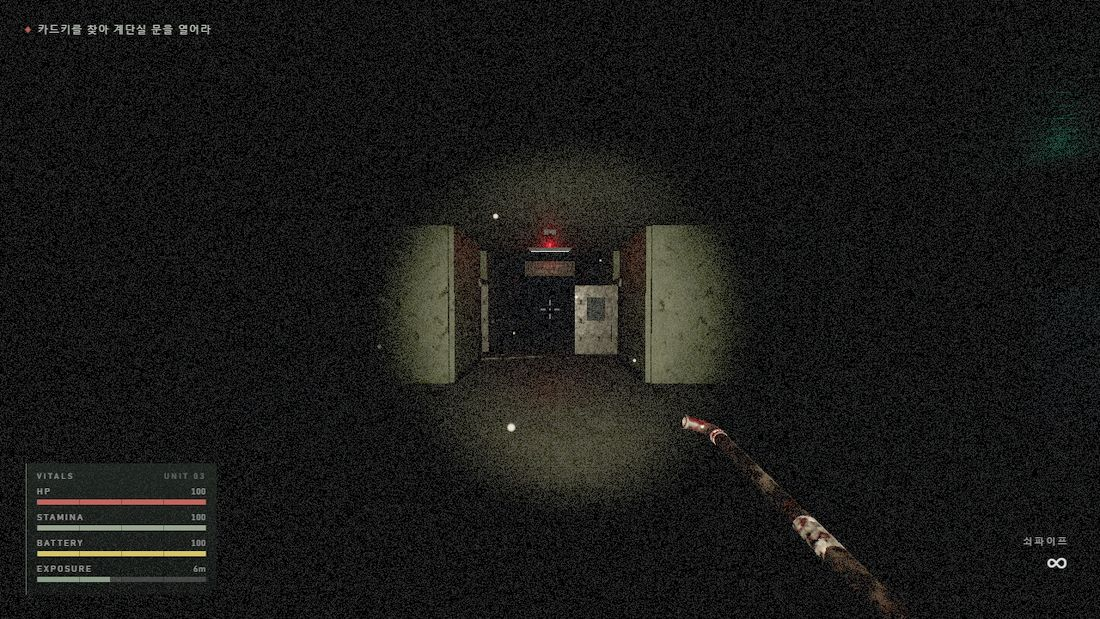
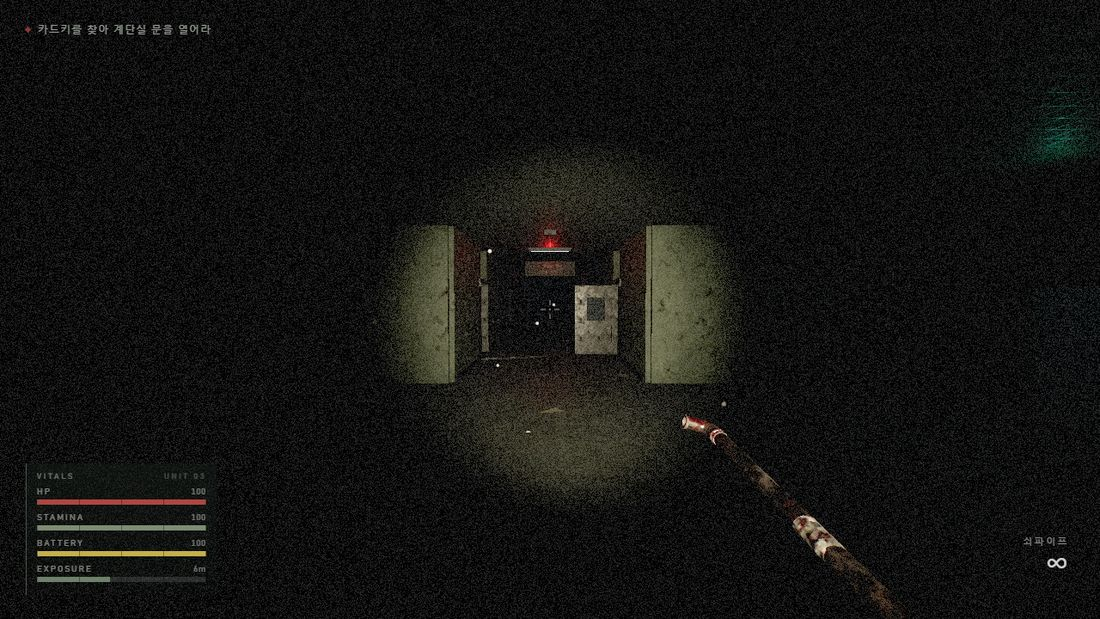
밝아진 화면으로 문서 사진을 다시 찍고 근거를 기록했다
게임이 밝아져서 "인쇄용으로 감마를 올렸다"는 설명과 실제가 어긋났다.
스크린샷 5장을 다시 찍고 감마를 1.85~2.0 에서 1.2~1.45 로 낮췄다.
기술 문서에 3-9 를 추가했다 — 주변광이 레버가 아니었던 것과, 상한값이
설계값을 덮고 있던 것. 둘 다 "연출을 더하자"가 아니라 "이미 있는 것이
왜 안 보이는가"였다.

Claude-Session: https://claude.ai/code/session_01186uSCxD2XabViBuikqqFg

Changed region(s): [[0.0, 0.0, 1.0, 1.0]]

diff --git a/docs/submission_ai_tech.html b/docs/submission_ai_tech.html
@@ -174,6 +174,10 @@ seamless tileable, flat lighting, no baked shadows, PBR albedo map</pre>
       <td>매번 나오는데 너무 작아 안 보였다</td><td class="num">후광 추가</td></tr>
   <tr><td class="k">3-8 끊김</td><td>씬이 무겁다</td>
       <td>셰이더가 플레이 도중에 컴파일되고 있었다</td><td class="num">234 → 3.4ms</td></tr>
+  <tr><td class="k">3-9 밝기</td><td>주변광을 올리면 된다</td>
+      <td>포그 색이 검정이라 주변광이 안 먹었다</td><td class="num">먹통 74 → 43%</td></tr>
+  <tr><td class="k">3-9 타격감</td><td>연출이 부족하다</td>
+      <td>상한값이 설계값을 덮어 쉬는 자세에서 판정이 났다</td><td class="num">궤적 5.7 → 39%</td></tr>
 </table>
 
 <h3>3-1. 성능 — 후처리가 무거운 줄 알았는데 안전장치가 죽어 있었다</h3>
@@ -418,6 +422,63 @@ seamless tileable, flat lighting, no baked shadows, PBR albedo map</pre>
   덧붙여, 이 측정은 한 번 통째로 버렸다. 남아 있던 헤드리스 브라우저 프로세스 26개와
   개발 서버가 같이 돌면서 로딩이 78초, 27초로 찍혔다. 정리하고 다시 재니 4.82초였다.
   성능 수치는 기계 상태에 심하게 오염되므로, 이상한 값이 나오면 코드보다 환경을 먼저 의심해야 한다.
+</p>
+
+<h3>3-9. 손대야 할 값이 손댈 것 같은 값이 아니었다 — 두 건</h3>
+<p>
+  마지막 날 플레이어가 보고한 두 가지다. 둘 다 <b>가장 그럴듯한 값을 만졌으면 못 고쳤다.</b>
+  먼저 재고 나서 고친 것이 이 프로젝트의 방식이라, 마지막까지 같게 했다.
+</p>
+
+<h4>“너무 어두워서 진행이 어렵다” — 주변광은 레버가 아니었다</h4>
+<p>
+  손전등을 켠 1F 복도조차 <b>화면의 74%가 사실상 순수한 검정</b>(휘도 0.02 미만)이었다.
+  비추는 자리마저 어두워서 바닥인지 문인지 구분이 안 되는 상태였다.
+  당연히 주변광(<code>ambientIntensity</code>)을 의심했는데, <b>6배로 올려도 74% → 69% 였다.</b>
+  포그 색이 <code>0x05070a</code>, 거의 검정이라 거리가 있는 픽셀이 전부 그 색으로 수렴하기
+  때문이다. 표면을 아무리 밝혀도 포그가 도로 검게 끌고 간다.
+</p>
+<table>
+  <tr><th>무엇을 올렸나</th><th class="num">먹통 픽셀 비율</th><th>판단</th></tr>
+  <tr><td class="k">지금 그대로</td><td class="num">74.4%</td><td>—</td></tr>
+  <tr><td class="k">주변광 6배</td><td class="num">69.1%</td><td class="bad">거의 안 움직인다</td></tr>
+  <tr><td class="k">포그 색 · 포그 밀도 · 비네트</td><td class="num">67~70%</td>
+      <td class="bad">각각 5%p 안쪽</td></tr>
+  <tr><td class="k"><b>톤매핑 노출 0.95 → 1.5</b></td><td class="num win">42.7%</td>
+      <td class="win">채택</td></tr>
+</table>
+<p>
+  노출은 화면 전체에 곱해지므로 <b>손전등 원뿔과 바깥의 대비는 그대로다.</b>
+  어둠을 없앤 것이 아니라 원뿔 안을 읽히게 만든 것이고, 그래서 공포 설계를 건드리지 않는다.
+  5구역 × 사건 전후 10가지 상태에서 하얗게 타는 픽셀은 전부 0%임을 확인하고 값을 정했다.
+</p>
+
+<h4>“휘두르는 느낌이 없다” — 상한값이 설계값을 덮고 있었다</h4>
+<p>
+  근접에는 히트스톱 · 무기 반발 · 척추 플린치가 이미 다 들어가 있었다. 그래서 연출을 더하는
+  대신 <b>스윙 한 번을 프레임 단위로 찍어</b> 봤더니, 피가 튀는 순간 무기가
+  <b>궤적의 5.7% 지점</b>, 사실상 쉬는 자세에 있었다.
+</p>
+<p>
+  설계값은 “스윙의 46% 지점에서 닿는다”였는데, 클릭이 씹히는 느낌을 막으려고 둔
+  <b>접촉 지연 상한 0.17초가 그 값을 조용히 덮고 있었다.</b> 스윙 길이가 무기 쿨다운에서
+  나오므로 <b>근접 5종 중 4종이 상한에 걸렸고, 무겁고 느린 무기일수록 더 크게 어긋났다</b> —
+  타격감이 가장 중요한 쪽이 가장 망가져 있었던 셈이다.
+  궤적 곡선이 <code>t³</code> 이라 앞쪽이 납작한 것이 이를 증폭했다.
+</p>
+<table>
+  <tr><th>쇠파이프 실측</th><th class="num">접촉 시각</th><th class="num">스윙 진행</th>
+      <th class="num">그때 궤적값</th></tr>
+  <tr><td class="k">이전 (상한 0.17)</td><td class="num">0.170s</td><td class="num">36%</td>
+      <td class="num bad">0.057</td></tr>
+  <tr><td class="k">지금 (상한 0.30)</td><td class="num">0.220s</td><td class="num">46%</td>
+      <td class="num win">0.394</td></tr>
+</table>
+<p class="note">
+  <b>둘 다 “연출을 더하자”가 아니라 “이미 있는 것이 왜 안 보이는가”였다.</b>
+  주변광을 올렸다면 화면은 그대로인 채 성능만 나빠졌을 것이고,
+  타격 이펙트를 더 넣었다면 여전히 쉬는 자세에서 피가 튀었을 것이다.
+  <b>고치기 전에 재면 안 고쳐도 될 것을 안 고치게 된다.</b>
 </p>
 
 <h2>4. 구조 — AI가 길을 잃지 않게 만든 계약</h2>

diff --git a/docs/submission_game_overview.html b/docs/submission_game_overview.html
@@ -96,8 +96,8 @@
 <h3>실제 화면</h3>
 <p class="meta">
   게임 안에서 그대로 캡처한 화면이다(1280×720, 합성이나 리터칭은 없다).
-  다만 인쇄용으로 <b>감마만 올려 밝혔다.</b> 실제 게임은 이보다 훨씬 어두워서,
-  종이에 그대로 옮기면 대부분이 검은 사각형이 된다.
+  다만 인쇄용으로 <b>감마만 조금 올렸다.</b> 종이는 화면보다 어두운 계조를 못 살려서,
+  그대로 옮기면 검은 부분이 통째로 뭉개진다.
 </p>
 
 <figure>
@@ -309,9 +309,10 @@
       심박 맥동과 화면 흔들림 계열 연출이 꺼진다</td></tr>
 </table>
 <div class="note">
-  <b>어두운 게임이라는 점을 미리 말씀드린다.</b> 모니터 밝기가 낮으면 복도가 통째로 안 보일 수 있다.
-  손전등 밖이 완전한 검정인 것은 의도한 것이고 이 게임의 공포 장치이기도 하지만,
-  화면이 너무 어둡다면 밝기를 조금 올리고 시작하기를 권한다.
+  <b>어두운 게임이라는 점을 미리 말씀드린다.</b> 손전등 원뿔 밖이 완전한 검정인 것은
+  의도한 것이고, 이 게임의 공포 장치이기도 하다. 다만 원뿔 <b>안</b>은 읽혀야 하므로
+  화면 전체의 노출을 마지막에 한 단계 올렸다(제출물 4번 §3-9).
+  그래도 모니터 밝기가 많이 낮다면 조금 올리고 시작하기를 권한다.
 </div>
 
 <h2>7. 화면에서 무엇을 보는가</h2>

diff --git a/PROGRESS.md b/PROGRESS.md
@@ -200,6 +200,35 @@
 > `renderer.info.programs` 의 `cacheKey` 를 스윕 전후로 비교하면 바로 나온다
 > (`scratchpad/qa/which_program.mjs`).
 
+#### 2026-08-08 — 밝기와 타격감 (해결)
+
+**둘 다 "가장 그럴듯한 값"이 레버가 아니었다.**
+
+- [x] **화면이 너무 어두워 진행이 어렵다** — 손전등을 켠 1F 복도조차 **화면의 74%가
+      휘도 0.02 미만**이었다. 먼저 의심한 `ambientIntensity` 는 **6배로 올려도
+      74% → 69%** 다. `fogColor` 가 `0x05070a`(거의 검정)라 거리가 있는 픽셀이 전부
+      그 색으로 수렴하기 때문이다. 포그 색·밀도·비네트도 각각 5%p 안쪽.
+      → **`FX.exposure` 0.95 → 1.5.** 먹통 74.4% → 42.7%.
+      노출은 전체에 곱해지므로 **손전등 원뿔과 바깥의 대비는 그대로다** — 어둠을 없앤 게
+      아니라 원뿔 안을 읽히게 했다. 5구역 × 사건 전후 10상태에서 **하얗게 타는 픽셀 0%**
+      (옥상만 0.01%). 그레인은 톤매핑 뒤에 더해져 같이 커지지 않는다.
+- [x] **휘두르는 느낌이 없다** — 히트스톱·반발·척추 플린치는 이미 다 있었다.
+      스윙을 프레임 단위로 찍어 보니 **피가 튀는 순간 무기가 궤적의 5.7% 지점**,
+      사실상 쉬는 자세였다. 설계값 `contact: 0.46` 을 **`contactMaxDelay: 0.17` 이
+      조용히 덮고 있었다** — `_swingDur = min(cooldown×0.92, 0.62)` 라
+      **근접 5종 중 4종이 상한에 걸렸고, 무겁고 느린 무기일수록 더 어긋났다.**
+      궤적이 `easeIn = t³` 이라 앞쪽이 납작한 것이 이를 증폭한다.
+      → **`contactMaxDelay` 0.17 → 0.30.** 쇠파이프 궤적값 **0.057 → 0.394**.
+      쿨다운은 클릭 시점에 걸리므로 **연타 리듬은 1프레임도 안 바뀐다.**
+
+> **교훈: 고치기 전에 재면 안 고쳐도 될 것을 안 고치게 된다.**
+> 주변광을 올렸다면 화면은 그대로인 채 성능만 나빠졌고, 타격 이펙트를 더 넣었다면
+> 여전히 쉬는 자세에서 피가 튀었을 것이다.
+> **함정: 밝기를 잴 때는 손전등을 끈 상태도 같이 재라.** 배터리가 떨어졌을 때
+> 아무것도 못 하면 그건 공포가 아니라 막힌 것이다(끈 상태 먹통은 지금도 74%다 — 의도).
+
+QA 4/4 · 구역 125/125 · 모션 1482/1482.
+
 ### 구역 — **1F → B1 → 2F → 3F → 옥상, 전부 연결됨**
 - [x] **구역 A (1F 격리병동)** — 복도 + 병실. 카드키 → 잠긴 계단실 문
 - [x] **구역 B (B1 영안실·기계실)** — 완전 암흑. 전원 레버 3개 → 점등 → 대규모 웨이브.
